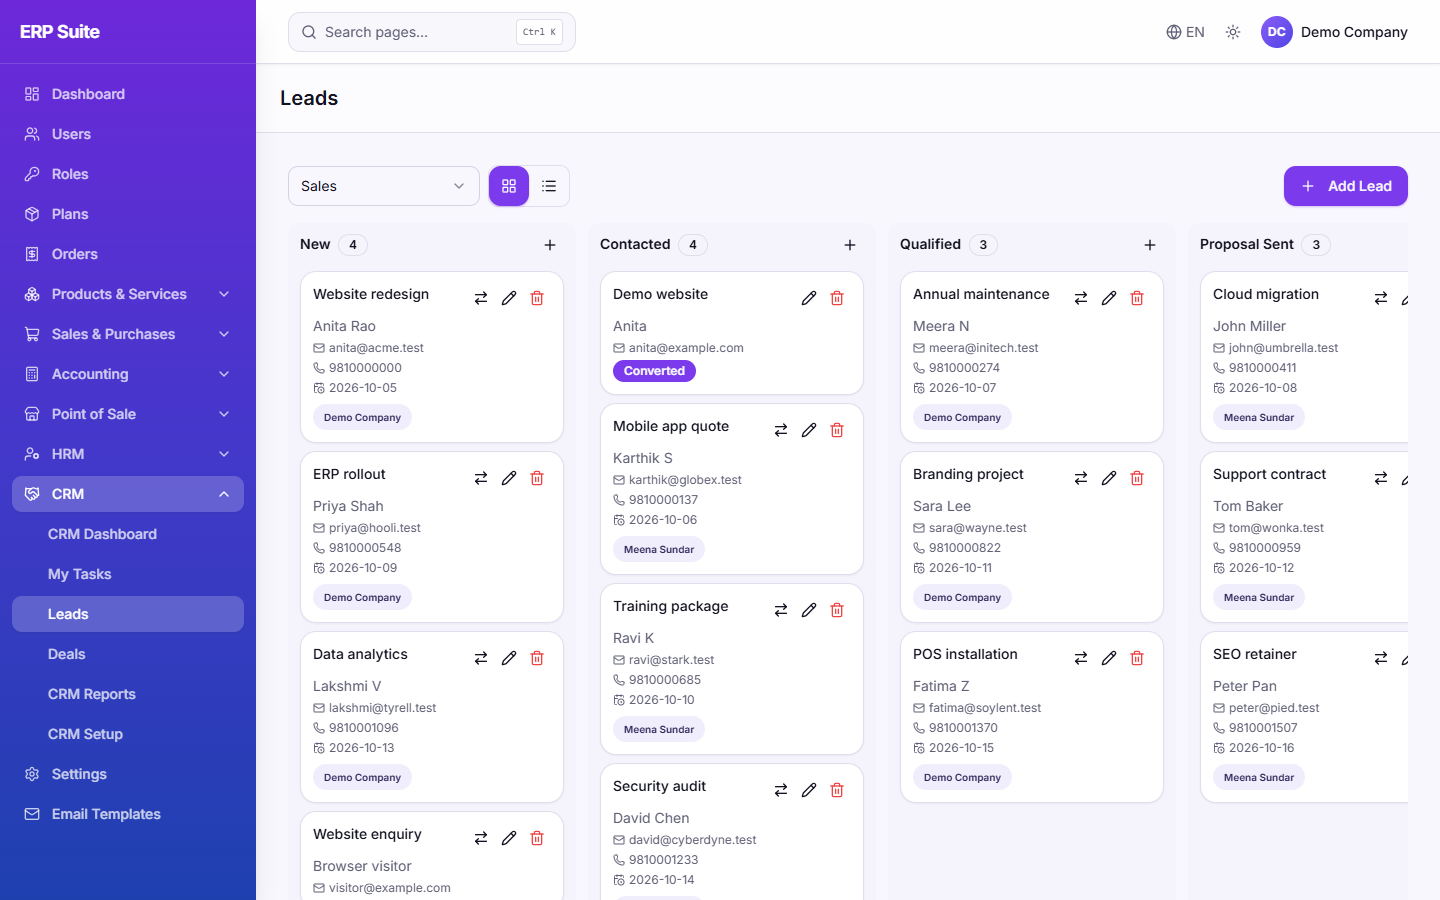
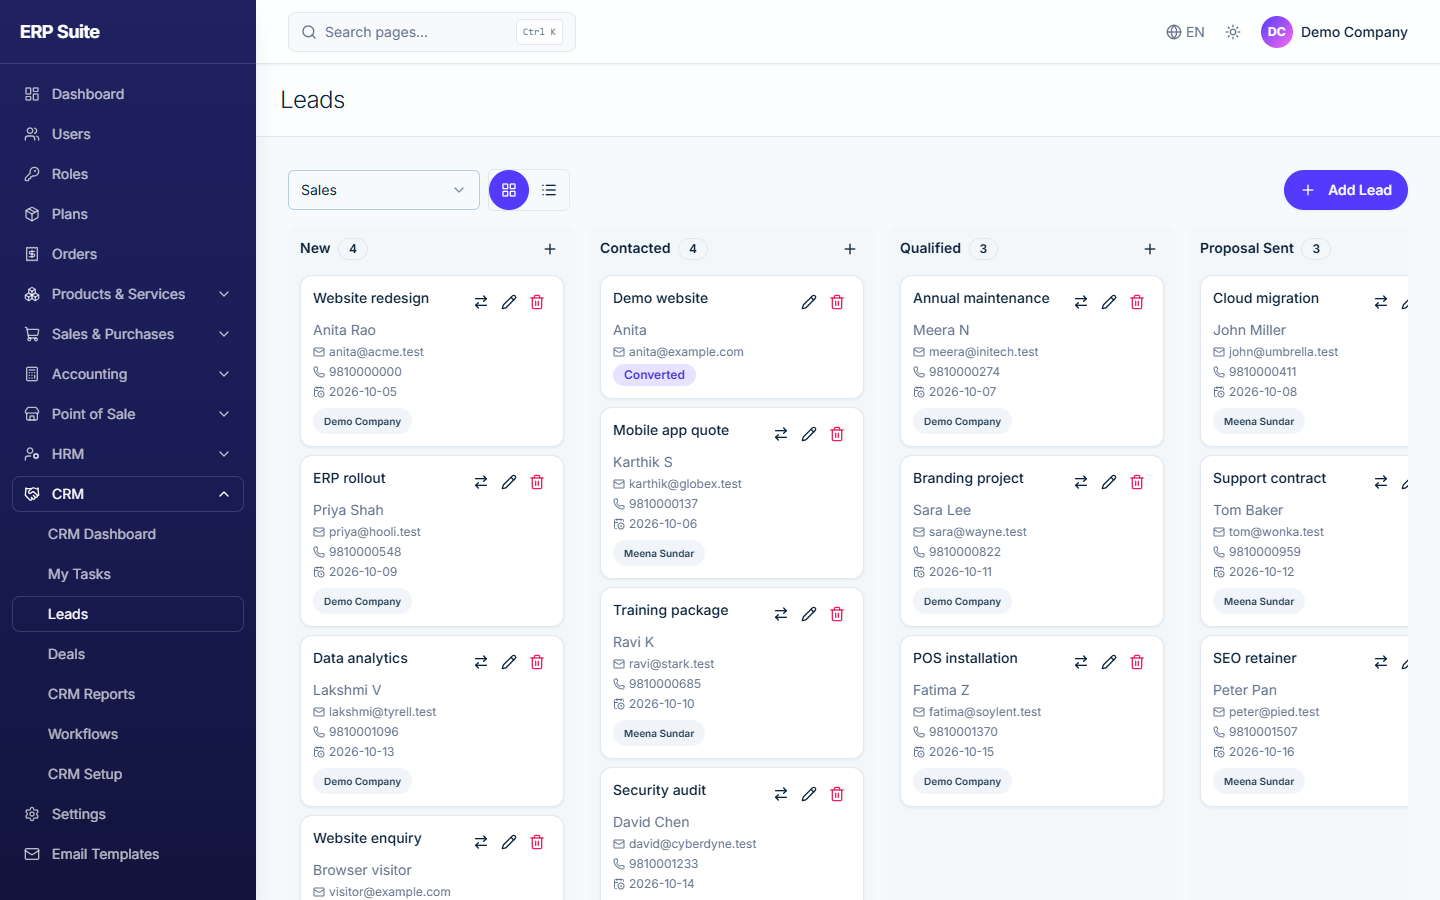
Stripe-inspired design system (from awesome-design-md): tokens, pill buttons, navy sidebar, gradient mesh, tabular numbers

diff --git a/main-app/resources/css/app.css b/main-app/resources/css/app.css
@@ -3,49 +3,51 @@
 @tailwind utilities;
 
 @layer base {
+    /* Design tokens follow the "Stripe-inspired" DESIGN.md from VoltAgent/awesome-design-md (MIT): indigo primary, navy ink,
+       cool hairlines, pill buttons, soft blue-tinted shadows, tabular numbers. */
     :root {
-        --background: 250 60% 98%;
-        --foreground: 240 30% 10%;
+        --background: 210 50% 98%;          /* canvas-soft  #f6f9fc */
+        --foreground: 209 65% 14%;          /* ink          #0d253d */
         --card: 0 0% 100%;
-        --card-foreground: 240 30% 10%;
+        --card-foreground: 209 65% 14%;
         --popover: 0 0% 100%;
-        --popover-foreground: 240 30% 10%;
-        --primary: 262.1 83.3% 57.8%;
-        --primary-foreground: 210 40% 98%;
-        --secondary: 250 70% 96%;
-        --secondary-foreground: 250 40% 25%;
-        --muted: 250 50% 96%;
-        --muted-foreground: 240 10% 42%;
-        --accent: 250 80% 95%;
-        --accent-foreground: 250 50% 25%;
-        --destructive: 0 84.2% 60.2%;
-        --destructive-foreground: 210 40% 98%;
-        --border: 250 30% 90%;
-        --input: 250 25% 86%;
-        --ring: 262 83% 58%;
-        --radius: 0.75rem;
+        --popover-foreground: 209 65% 14%;
+        --primary: 248 98% 61%;             /* primary      #533afd */
+        --primary-foreground: 0 0% 100%;
+        --secondary: 210 40% 96%;
+        --secondary-foreground: 209 40% 25%; /* ink-secondary #273951 */
+        --muted: 210 40% 96%;
+        --muted-foreground: 217 17% 47%;    /* ink-mute     #64748d */
+        --accent: 248 90% 97%;
+        --accent-foreground: 248 70% 40%;
+        --destructive: 342 82% 52%;         /* ruby         #ea2261 */
+        --destructive-foreground: 0 0% 100%;
+        --border: 210 25% 91%;              /* hairline     #e3e8ee */
+        --input: 210 40% 80%;               /* hairline-input #a8c3de */
+        --ring: 248 98% 61%;
+        --radius: 0.5rem;
     }
 
     .dark {
-        --background: 240 30% 7%;
-        --foreground: 240 20% 96%;
-        --card: 240 25% 10.5%;
-        --card-foreground: 240 20% 96%;
-        --popover: 240 25% 10.5%;
-        --popover-foreground: 240 20% 96%;
-        --primary: 263.4 85% 66%;
-        --primary-foreground: 240 30% 8%;
-        --secondary: 240 20% 16%;
-        --secondary-foreground: 240 20% 96%;
-        --muted: 240 20% 14%;
-        --muted-foreground: 240 10% 66%;
-        --accent: 250 30% 20%;
-        --accent-foreground: 240 20% 96%;
-        --destructive: 0 70% 52%;
+        --background: 215 45% 8%;
+        --foreground: 210 30% 96%;
+        --card: 214 40% 11.5%;
+        --card-foreground: 210 30% 96%;
+        --popover: 214 40% 11.5%;
+        --popover-foreground: 210 30% 96%;
+        --primary: 248 100% 72%;
+        --primary-foreground: 215 45% 8%;
+        --secondary: 214 30% 17%;
+        --secondary-foreground: 210 30% 96%;
+        --muted: 214 30% 15%;
+        --muted-foreground: 213 18% 68%;
+        --accent: 248 35% 22%;
+        --accent-foreground: 210 30% 96%;
+        --destructive: 342 75% 55%;
         --destructive-foreground: 0 0% 100%;
-        --border: 240 15% 19%;
-        --input: 240 15% 24%;
-        --ring: 263 85% 66%;
+        --border: 214 25% 19%;
+        --input: 214 25% 26%;
+        --ring: 248 100% 72%;
     }
 
     * {
@@ -61,6 +63,12 @@
         @apply bg-background text-foreground;
     }
 
+    /* money and counts line up in columns */
+    table,
+    .tnum {
+        font-variant-numeric: tabular-nums;
+    }
+
     ::selection {
         background: hsl(var(--primary) / 0.25);
     }
@@ -69,6 +77,23 @@
     * {
         scrollbar-width: thin;
         scrollbar-color: hsl(var(--muted-foreground) / 0.35) transparent;
+    }
+}
+
+@layer components {
+    /* dark navy app chrome (brand-dark-900) */
+    .bg-sidebar {
+        background: linear-gradient(180deg, #1f2160 0%, #1a1c55 50%, #12143d 100%);
+    }
+
+    /* the signature gradient mesh: indigo, magenta, ruby */
+    .bg-mesh {
+        background:
+            radial-gradient(at 12% 8%, #665efd 0, transparent 55%),
+            radial-gradient(at 88% 12%, #f96bee 0, transparent 48%),
+            radial-gradient(at 78% 92%, #ea2261 0, transparent 48%),
+            radial-gradient(at 8% 88%, #533afd 0, transparent 55%),
+            #4434d4;
     }
 }
 

diff --git a/main-app/resources/js/Pages/Dashboard.tsx b/main-app/resources/js/Pages/Dashboard.tsx
@@ -14,11 +14,11 @@ interface Widget {
 
 /** The company dashboard: one card per active module (the modules add their own widget, see App\Events\CollectDashboardWidgets). */
 const ACCENTS = [
-    { bar: 'from-violet-500 to-fuchsia-500', tint: 'bg-violet-50 dark:bg-violet-500/10' },
-    { bar: 'from-sky-500 to-cyan-400', tint: 'bg-sky-50 dark:bg-sky-500/10' },
-    { bar: 'from-emerald-500 to-lime-400', tint: 'bg-emerald-50 dark:bg-emerald-500/10' },
-    { bar: 'from-orange-500 to-amber-400', tint: 'bg-orange-50 dark:bg-orange-500/10' },
-    { bar: 'from-rose-500 to-pink-400', tint: 'bg-rose-50 dark:bg-rose-500/10' },
+    { bar: 'from-[#533afd] to-[#f96bee]', tint: 'bg-[#533afd]/[0.06]' },
+    { bar: 'from-[#665efd] to-[#38bdf8]', tint: 'bg-[#665efd]/[0.07]' },
+    { bar: 'from-[#0ea5a4] to-[#84cc16]', tint: 'bg-emerald-500/[0.07]' },
+    { bar: 'from-[#9b6829] to-[#f59e0b]', tint: 'bg-amber-500/[0.08]' },
+    { bar: 'from-[#ea2261] to-[#f96bee]', tint: 'bg-[#ea2261]/[0.06]' },
 ];
 
 export default function Dashboard({ widgets }: PageProps<{ widgets: Widget[] }>) {
@@ -31,9 +31,9 @@ export default function Dashboard({ widgets }: PageProps<{ widgets: Widget[] }>)
             <Head title={t('Dashboard')} />
 
             <div className="mx-auto max-w-7xl space-y-6 px-4 py-8 sm:px-6 lg:px-8">
-                <div className="rounded-2xl bg-gradient-to-r from-violet-600 via-indigo-600 to-sky-500 p-6 text-white shadow-lg">
+                <div className="rounded-xl bg-mesh p-7 text-white shadow-float">
                     <div className="text-sm opacity-80">{new Date().toLocaleDateString(undefined, { weekday: 'long', day: 'numeric', month: 'long', year: 'numeric' })}</div>
-                    <div className="mt-1 text-2xl font-bold">{t('Welcome back')}, {auth.user.name}!</div>
+                    <div className="mt-1 text-3xl font-light tracking-tight">{t('Welcome back')}, {auth.user.name}!</div>
                     <div className="mt-1 text-sm opacity-90">{t("Here is what is happening in your business today.")}</div>
                 </div>
 
@@ -53,7 +53,7 @@ export default function Dashboard({ widgets }: PageProps<{ widgets: Widget[] }>)
                                 {w.stats.map((s, si) => (
                                     <div key={s.label} className={`rounded-xl p-3 ${ACCENTS[(wi + si) % ACCENTS.length].tint}`}>
                                         <div className="text-xs text-muted-foreground">{t(s.label)}</div>
-                                        <div className="text-2xl font-semibold">{s.format === 'money' ? money(Number(s.value)) : s.value}</div>
+                                        <div className="tnum text-2xl font-light tracking-tight">{s.format === 'money' ? money(Number(s.value)) : s.value}</div>
                                         {s.hint && <div className="text-xs text-muted-foreground">{s.hint}</div>}
                                     </div>
                                 ))}

diff --git a/main-app/packages/modules/Hrm/src/Resources/js/Pages/Dashboard/Index.tsx b/main-app/packages/modules/Hrm/src/Resources/js/Pages/Dashboard/Index.tsx
@@ -23,14 +23,14 @@ interface Props {
     birthdays: { name: string; date: string; in_days: number }[];
 }
 
-const COLORS = ['#2563eb', '#16a34a', '#f59e0b', '#db2777', '#7c3aed', '#0891b2', '#64748b'];
+const COLORS = ['#533afd', '#f96bee', '#ea2261', '#665efd', '#9b6829', '#0d253d', '#64748d'];
 
 function Kpi({ label, value, hint }: { label: string; value: string | number; hint?: string }) {
     return (
         <Card>
             <CardContent className="p-4">
                 <div className="text-xs text-muted-foreground">{label}</div>
-                <div className="text-2xl font-semibold">{value}</div>
+                <div className="tnum text-2xl font-light tracking-tight">{value}</div>
                 {hint && <div className="text-xs text-muted-foreground">{hint}</div>}
             </CardContent>
         </Card>
@@ -82,7 +82,7 @@ export default function HrmDashboard(p: Props) {
                                     <XAxis dataKey="name" tick={{ fontSize: 12 }} />
                                     <YAxis allowDecimals={false} />
                                     <Tooltip />
-                                    <Bar dataKey="value" fill="#7c3aed" radius={[6, 6, 0, 0]}>
+                                    <Bar dataKey="value" fill="#533afd" radius={[6, 6, 0, 0]}>
                                         {p.byDepartment.map((_, i) => <Cell key={i} fill={COLORS[i % COLORS.length]} />)}
                                     </Bar>
                                 </BarChart>
@@ -98,7 +98,7 @@ export default function HrmDashboard(p: Props) {
                                     <XAxis dataKey="date" tick={{ fontSize: 12 }} />
                                     <YAxis allowDecimals={false} />
                                     <Tooltip />
-                                    <Bar dataKey="present" fill="#0d9488" radius={[6, 6, 0, 0]} />
+                                    <Bar dataKey="present" fill="#665efd" radius={[6, 6, 0, 0]} />
                                 </BarChart>
                             </ResponsiveContainer>
                         </CardContent>
@@ -112,7 +112,7 @@ export default function HrmDashboard(p: Props) {
                                     <XAxis dataKey="month" />
                                     <YAxis allowDecimals={false} />
                                     <Tooltip />
-                                    <Line type="monotone" dataKey="joined" stroke="#7c3aed" strokeWidth={2} />
+                                    <Line type="monotone" dataKey="joined" stroke="#533afd" strokeWidth={2} />
                                 </LineChart>
                             </ResponsiveContainer>
                         </CardContent>

diff --git a/main-app/resources/js/Layouts/AuthenticatedLayout.tsx b/main-app/resources/js/Layouts/AuthenticatedLayout.tsx
@@ -53,7 +53,7 @@ export default function Authenticated({ header, children }: PropsWithChildren<{ 
     return (
         <div className="min-h-screen bg-background text-foreground">
             {/* desktop sidebar */}
-            <aside className="fixed inset-y-0 left-0 z-30 hidden w-64 bg-gradient-to-b from-violet-700 via-indigo-700 to-blue-800 shadow-xl print:hidden lg:block">
+            <aside className="fixed inset-y-0 left-0 z-30 hidden w-64 bg-sidebar shadow-xl print:hidden lg:block">
                 <AppSidebar items={menu} title={appTitle} />
             </aside>
 
@@ -61,7 +61,7 @@ export default function Authenticated({ header, children }: PropsWithChildren<{ 
             {mobileOpen && (
                 <div className="fixed inset-0 z-40 lg:hidden">
                     <div className="absolute inset-0 bg-black/50" onClick={() => setMobileOpen(false)} />
-                    <aside className="absolute inset-y-0 left-0 w-64 bg-gradient-to-b from-violet-700 via-indigo-700 to-blue-800">
+                    <aside className="absolute inset-y-0 left-0 w-64 bg-sidebar">
                         <button
                             type="button"
                             className="absolute right-2 top-4 rounded p-1 text-muted-foreground"
@@ -138,7 +138,7 @@ export default function Authenticated({ header, children }: PropsWithChildren<{ 
                         <Dropdown>
                             <Dropdown.Trigger>
                                 <button type="button" className="flex items-center gap-2 rounded-lg px-2 py-1.5 text-sm font-medium hover:bg-accent">
-                                    <span className="flex h-8 w-8 items-center justify-center rounded-full bg-gradient-to-br from-violet-500 to-indigo-600 text-xs font-bold text-white">
+                                    <span className="flex h-8 w-8 items-center justify-center rounded-full bg-gradient-to-br from-[#533afd] to-[#f96bee] text-xs font-bold text-white">
                                         {auth.user.name.split(' ').map((w: string) => w[0]).slice(0, 2).join('').toUpperCase()}
                                     </span>
                                     <span className="hidden sm:inline">{auth.user.name}</span>
@@ -156,7 +156,7 @@ export default function Authenticated({ header, children }: PropsWithChildren<{ 
 
                 {header && (
                     <div className="border-b bg-card/50 print:hidden">
-                        <div className="px-4 py-5 sm:px-6">{header}</div>
+                        <div className="px-4 py-5 sm:px-6 [&_h2]:text-2xl [&_h2]:font-light [&_h2]:tracking-tight">{header}</div>
                     </div>
                 )}
 

diff --git a/main-app/resources/js/Components/ui/button.tsx b/main-app/resources/js/Components/ui/button.tsx
@@ -5,15 +5,15 @@ import { cva, type VariantProps } from "class-variance-authority"
 import { cn } from "@/lib/utils"
 
 const buttonVariants = cva(
-  "inline-flex items-center justify-center gap-2 whitespace-nowrap rounded-lg text-sm font-medium ring-offset-background transition-all duration-150 active:scale-[0.98] focus-visible:outline-none focus-visible:ring-2 focus-visible:ring-ring focus-visible:ring-offset-2 disabled:pointer-events-none disabled:opacity-50 [&_svg]:pointer-events-none [&_svg]:size-4 [&_svg]:shrink-0",
+  "inline-flex items-center justify-center gap-2 whitespace-nowrap rounded-full text-sm font-medium ring-offset-background transition-all duration-150 active:scale-[0.98] focus-visible:outline-none focus-visible:ring-2 focus-visible:ring-ring focus-visible:ring-offset-2 disabled:pointer-events-none disabled:opacity-50 [&_svg]:pointer-events-none [&_svg]:size-4 [&_svg]:shrink-0",
   {
     variants: {
       variant: {
-        default: "bg-primary text-primary-foreground shadow-sm shadow-primary/30 hover:bg-primary/90 hover:shadow-md hover:shadow-primary/30",
+        default: "bg-primary text-primary-foreground shadow-lift hover:bg-primary/90 active:bg-[#2e2b8c]",
         destructive:
           "bg-destructive text-destructive-foreground hover:bg-destructive/90",
         outline:
-          "border border-input bg-card shadow-sm hover:bg-accent hover:text-accent-foreground",
+          "border border-border bg-card text-foreground shadow-lift hover:border-primary/50 hover:bg-accent hover:text-accent-foreground",
         secondary:
           "bg-secondary text-secondary-foreground hover:bg-secondary/80",
         ghost: "hover:bg-accent hover:text-accent-foreground",
@@ -21,8 +21,8 @@ const buttonVariants = cva(
       },
       size: {
         default: "h-10 px-4 py-2",
-        sm: "h-9 rounded-lg px-3",
-        lg: "h-11 rounded-lg px-8",
+        sm: "h-9 rounded-full px-3.5",
+        lg: "h-11 rounded-full px-8",
         icon: "h-10 w-10",
       },
     },

diff --git a/main-app/resources/js/utils/theme.ts b/main-app/resources/js/utils/theme.ts
@@ -1,5 +1,6 @@
 /** Primary colour presets (HSL triplets for the --primary CSS variable) – [light, dark]. */
 export const THEME_COLORS: Record<string, { light: string; dark: string; swatch: string }> = {
+    indigo: { light: '248 98% 61%', dark: '248 100% 72%', swatch: '#533afd' },
     slate: { light: '222.2 47.4% 11.2%', dark: '210 40% 98%', swatch: '#0f172a' },
     blue: { light: '221.2 83.2% 53.3%', dark: '217.2 91.2% 59.8%', swatch: '#2563eb' },
     green: { light: '142.1 76.2% 36.3%', dark: '142.1 70.6% 45.3%', swatch: '#16a34a' },
@@ -35,11 +36,11 @@ export function isDark(mode: ThemeMode): boolean {
 
 export function applyTheme(mode: ThemeMode, color: string) {
     const dark = isDark(mode);
-    const preset = THEME_COLORS[color] ?? THEME_COLORS.slate;
+    const preset = THEME_COLORS[color] ?? THEME_COLORS.indigo;
     const root = document.documentElement;
 
     root.classList.toggle('dark', dark);
     root.style.setProperty('--primary', dark ? preset.dark : preset.light);
     // keep text on the primary colour readable
-    root.style.setProperty('--primary-foreground', dark && color === 'slate' ? '222.2 47.4% 11.2%' : '210 40% 98%');
+    root.style.setProperty('--primary-foreground', dark ? '215 45% 8%' : '0 0% 100%');
 }

diff --git a/main-app/resources/js/Components/ui/input.tsx b/main-app/resources/js/Components/ui/input.tsx
@@ -8,7 +8,7 @@ const Input = React.forwardRef<HTMLInputElement, React.ComponentProps<"input">>(
       <input
         type={type}
         className={cn(
-          "flex h-10 w-full rounded-lg border border-input bg-card px-3 py-2 shadow-sm transition-shadow text-base ring-offset-background file:border-0 file:bg-transparent file:text-sm file:font-medium file:text-foreground placeholder:text-muted-foreground focus-visible:outline-none focus-visible:ring-2 focus-visible:ring-ring focus-visible:ring-offset-2 disabled:cursor-not-allowed disabled:opacity-50 md:text-sm",
+          "flex h-10 w-full rounded-md border border-input bg-card px-3 py-2 transition-shadow text-base ring-offset-background file:border-0 file:bg-transparent file:text-sm file:font-medium file:text-foreground placeholder:text-muted-foreground focus-visible:outline-none focus-visible:ring-2 focus-visible:ring-ring focus-visible:ring-offset-2 disabled:cursor-not-allowed disabled:opacity-50 md:text-sm",
           className
         )}
         ref={ref}

diff --git a/main-app/packages/modules/Lead/src/Resources/js/Pages/Tasks/Index.tsx b/main-app/packages/modules/Lead/src/Resources/js/Pages/Tasks/Index.tsx
@@ -104,7 +104,7 @@ export default function Index({ overdue, dueToday, upcoming }: Props) {
                 <div className="grid gap-4 lg:grid-cols-2">
                     <Group title={t('Overdue')} icon={AlarmClock} tone="from-rose-500 to-orange-400" tasks={overdue} onDone={done} busy={busy} empty={t('Nothing overdue')} />
                     <Group title={t('Due today')} icon={CalendarCheck} tone="from-amber-500 to-yellow-400" tasks={dueToday} onDone={done} busy={busy} empty={t('Nothing due today')} />
-                    <Group title={t('Upcoming')} icon={CalendarClock} tone="from-sky-500 to-cyan-400" tasks={upcoming} onDone={done} busy={busy} empty={t('Nothing planned')} />
+                    <Group title={t('Upcoming')} icon={CalendarClock} tone="from-[#533afd] to-[#665efd]" tasks={upcoming} onDone={done} busy={busy} empty={t('Nothing planned')} />
                 </div>
             </div>
         </AuthenticatedLayout>

diff --git a/main-app/resources/js/Layouts/GuestLayout.tsx b/main-app/resources/js/Layouts/GuestLayout.tsx
@@ -3,14 +3,14 @@ import { PropsWithChildren } from 'react';
 
 export default function Guest({ children }: PropsWithChildren) {
     return (
-        <div className="flex min-h-screen flex-col items-center bg-gradient-to-br from-violet-600 via-indigo-600 to-sky-500 pt-6 sm:justify-center sm:pt-0">
+        <div className="flex min-h-screen flex-col items-center bg-mesh pt-6 sm:justify-center sm:pt-0">
             <div>
                 <Link href="/">
                     <span className="text-4xl font-extrabold tracking-tight text-white drop-shadow">ERP Suite</span>
                 </Link>
             </div>
 
-            <div className="mt-6 w-full overflow-hidden bg-white px-6 py-6 shadow-2xl sm:max-w-md sm:rounded-2xl">
+            <div className="mt-6 w-full overflow-hidden bg-white px-6 py-6 shadow-2xl sm:max-w-md sm:rounded-xl">
                 {children}
             </div>
         </div>

diff --git a/main-app/packages/modules/Lead/src/Resources/js/Pages/Dashboard/Index.tsx b/main-app/packages/modules/Lead/src/Resources/js/Pages/Dashboard/Index.tsx
@@ -17,14 +17,14 @@ interface Props {
     activity: { kind: 'lead' | 'deal'; id: number; title: string; remark: string; who: string | null; at: string }[];
 }
 
-const COLORS = ['#2563eb', '#16a34a', '#f59e0b', '#db2777', '#7c3aed', '#0891b2', '#64748b'];
+const COLORS = ['#533afd', '#f96bee', '#ea2261', '#665efd', '#9b6829', '#0d253d', '#64748d'];
 
 function Kpi({ label, value, hint }: { label: string; value: string | number; hint?: string }) {
     return (
         <Card>
             <CardContent className="p-4">
                 <div className="text-xs text-muted-foreground">{label}</div>
-                <div className="text-2xl font-semibold">{value}</div>
+                <div className="tnum text-2xl font-light tracking-tight">{value}</div>
                 {hint && <div className="text-xs text-muted-foreground">{hint}</div>}
             </CardContent>
         </Card>

diff --git a/main-app/resources/js/Components/PrimaryButton.tsx b/main-app/resources/js/Components/PrimaryButton.tsx
@@ -10,7 +10,7 @@ export default function PrimaryButton({
         <button
             {...props}
             className={
-                `inline-flex items-center rounded-md border border-transparent bg-gradient-to-r from-violet-600 to-indigo-600 px-4 py-2 text-xs font-semibold uppercase tracking-widest text-white transition duration-150 ease-in-out hover:from-violet-700 hover:to-indigo-700 focus:outline-none focus:ring-2 focus:ring-indigo-500 focus:ring-offset-2 ${
+                `inline-flex items-center rounded-full border border-transparent bg-primary px-5 py-2 text-xs font-semibold uppercase tracking-widest text-white transition duration-150 ease-in-out hover:bg-primary/90 focus:outline-none focus:ring-2 focus:ring-indigo-500 focus:ring-offset-2 ${
                     disabled && 'opacity-25'
                 } ` + className
             }

diff --git a/main-app/resources/js/Components/AppSidebar.tsx b/main-app/resources/js/Components/AppSidebar.tsx
@@ -27,9 +27,9 @@ function Item({ item, depth = 0 }: { item: NavItem; depth?: number }) {
 
     const Icon = item.icon;
     const base = cn(
-        'flex w-full items-center gap-3 rounded-md px-3 py-2 text-sm font-medium transition-colors',
+        'flex w-full items-center gap-3 rounded-lg px-3 py-2 text-sm font-normal transition-colors',
         depth > 0 && 'pl-9',
-        active ? 'bg-white/20 text-white shadow-sm' : 'text-white/75 hover:bg-white/10 hover:text-white',
+        active ? 'bg-white/12 text-white ring-1 ring-inset ring-white/15' : 'text-white/70 hover:bg-white/8 hover:text-white',
     );
 
     if (item.children?.length) {
